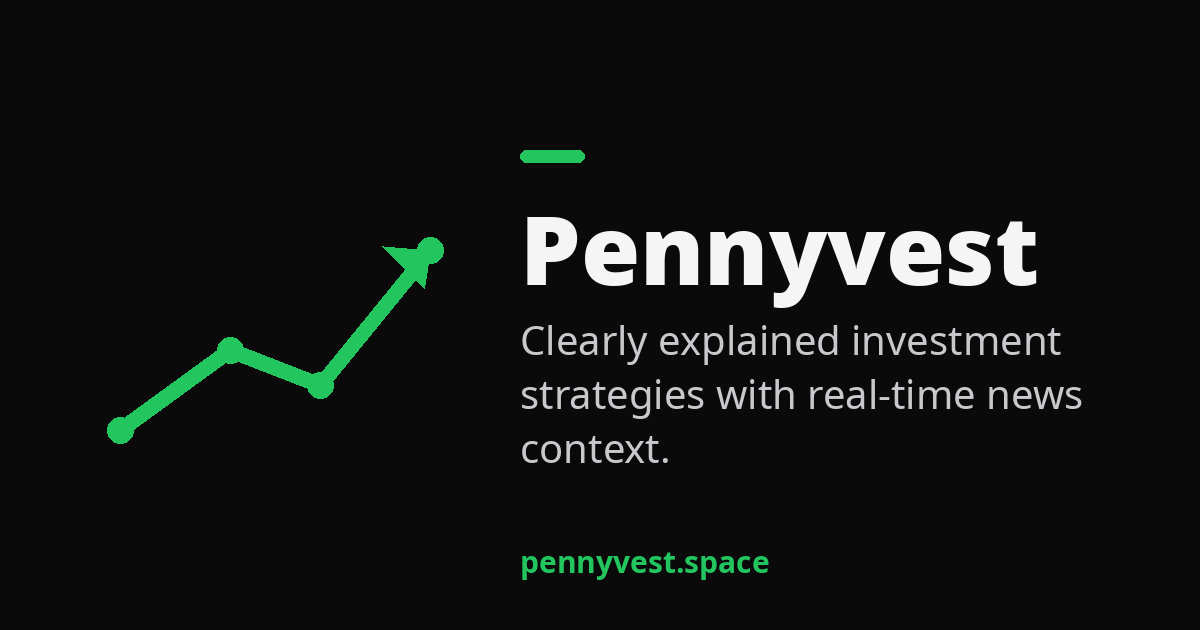
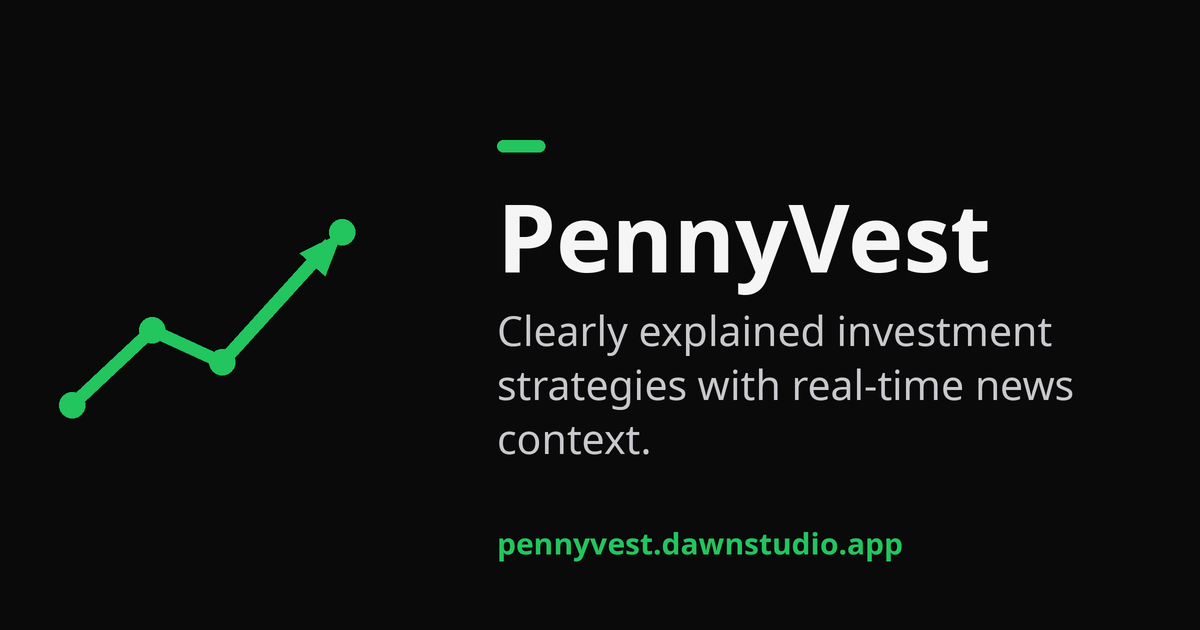
Media card: canonical dawnstudio.app og URL + PennyVest display name + refreshed 1200x630 card

diff --git a/src/app/[locale]/layout.tsx b/src/app/[locale]/layout.tsx
@@ -21,7 +21,7 @@ export function generateStaticParams() {
 export async function generateMetadata({ params }: Props): Promise<Metadata> {
   const { locale } = await params;
   const t = await getTranslations({ locale, namespace: 'metadata' });
-  const baseUrl = 'https://pennyvest.space';
+  const baseUrl = 'https://pennyvest.dawnstudio.app';
   const title = t('title');
   const description = t('description');
   return {
@@ -35,7 +35,7 @@ export async function generateMetadata({ params }: Props): Promise<Metadata> {
       title,
       description,
       url: baseUrl,
-      siteName: 'Pennyvest',
+      siteName: 'PennyVest',
       locale: locale === 'zh-HK' ? 'zh_HK' : 'en_US',
       type: 'website',
       images: [
@@ -43,7 +43,7 @@ export async function generateMetadata({ params }: Props): Promise<Metadata> {
           url: '/og.png',
           width: 1200,
           height: 630,
-          alt: 'Pennyvest — clearly explained investment strategies with real-time news context',
+          alt: 'PennyVest — clearly explained investment strategies with real-time news context',
         },
       ],
     },
